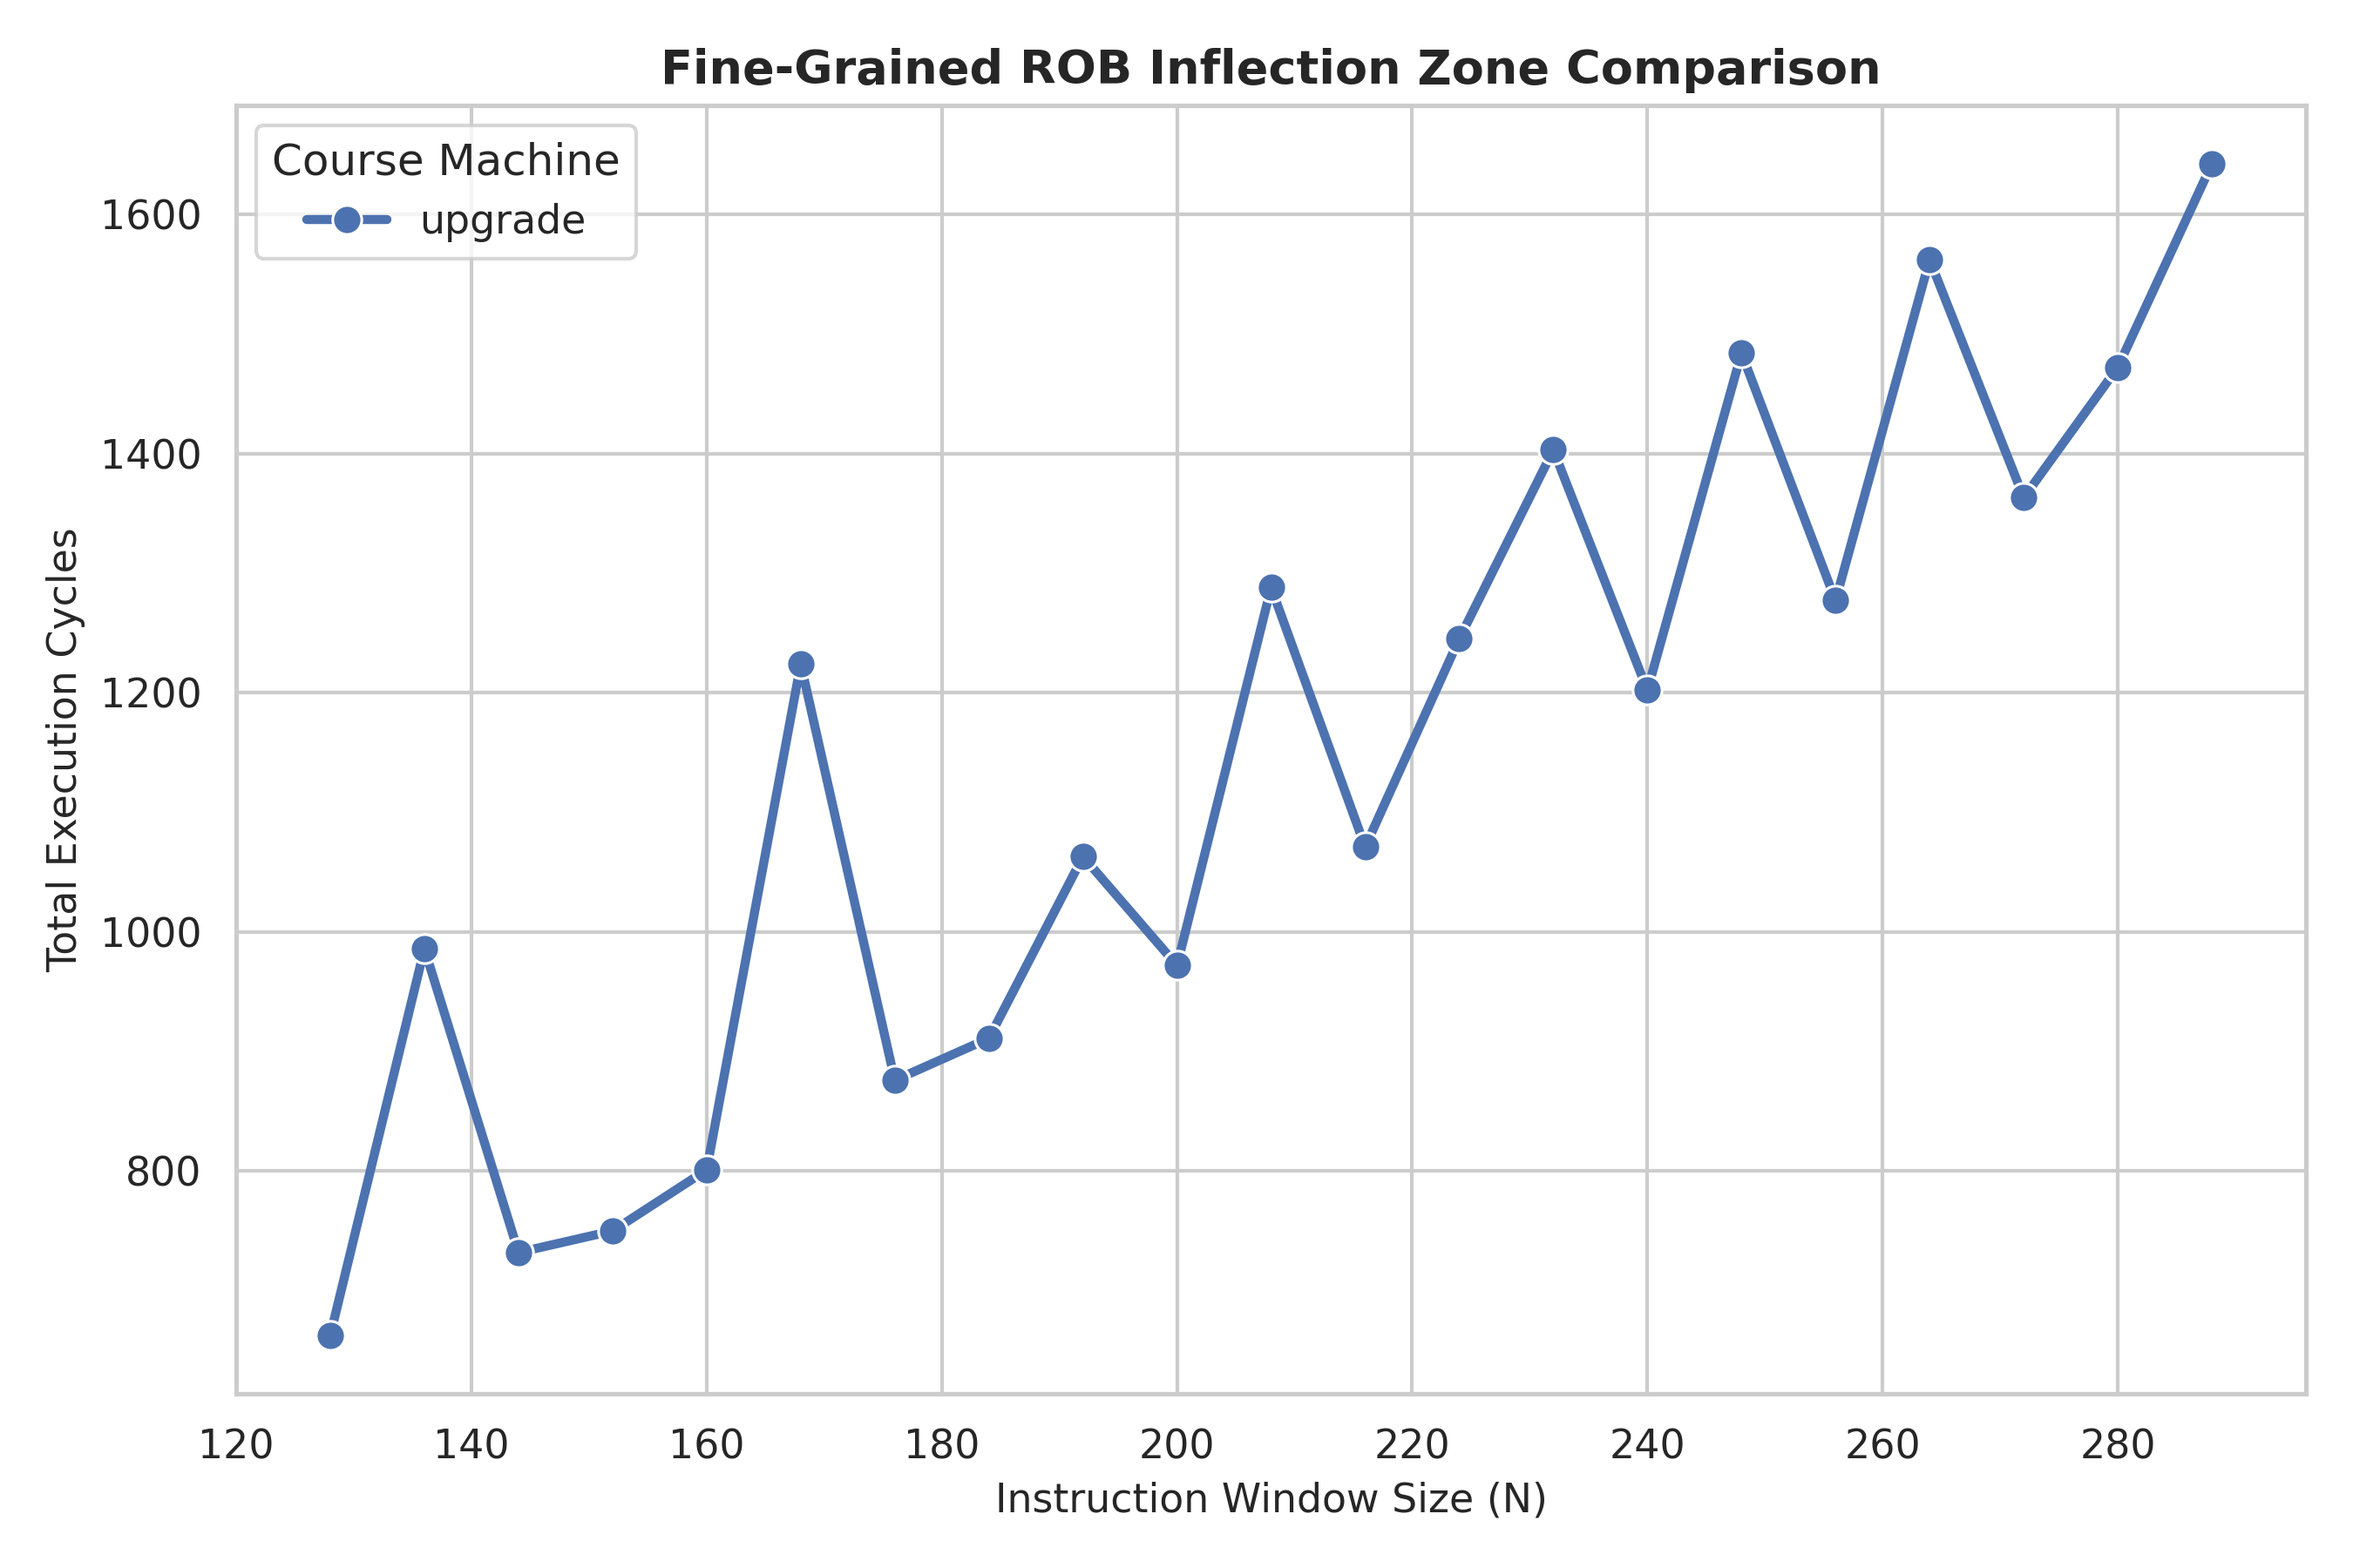
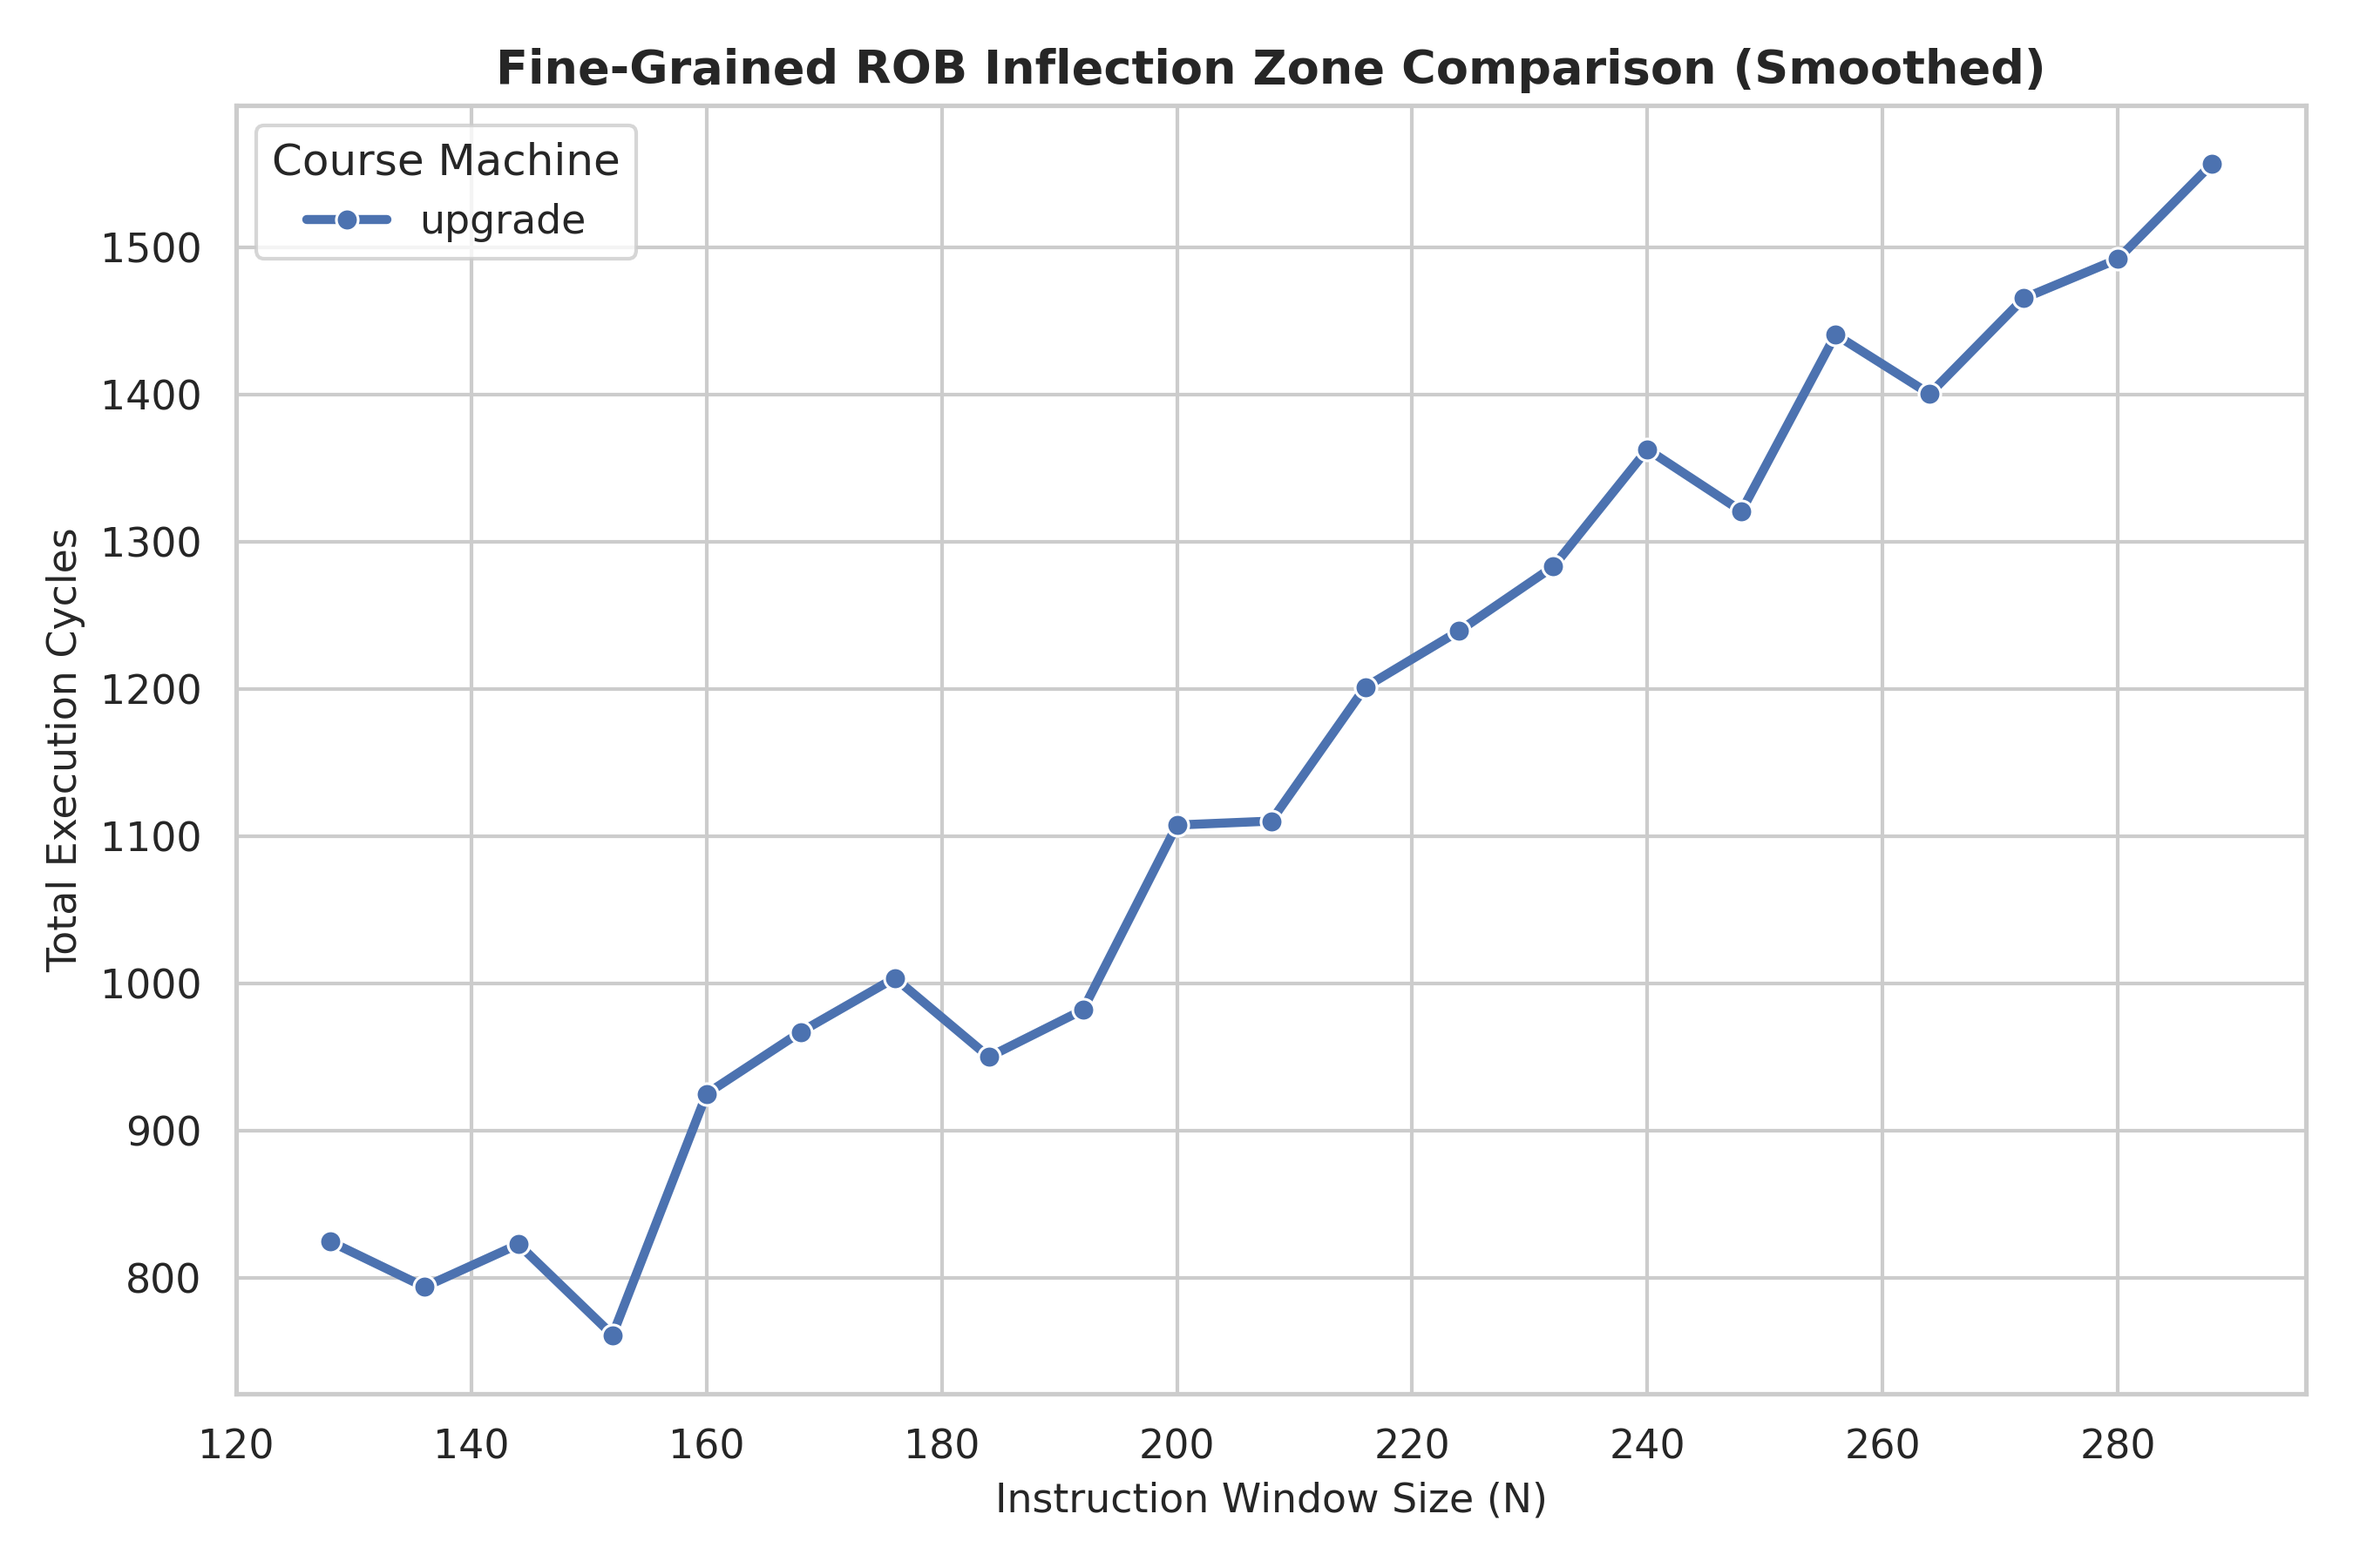
Add smooth trend overlay to fine-grained ROB zoom plots and comparison

diff --git a/plots/plot_rob_fine_all.py b/plots/plot_rob_fine_all.py
@@ -3,6 +3,7 @@ import matplotlib.pyplot as plt
 import seaborn as sns
 import glob
 import os
+import numpy as np
 
 # Find all fine-grained ROB CSV data files
 search_paths = [
@@ -26,52 +27,73 @@ if dfs:
     df.columns = df.columns.str.strip()
     df["Machine_Clean"] = df["Machine"].str.split(".").str[0]
 
-    os.makedirs("plots", abs=True) if not os.path.exists("plots") else None
+    os.makedirs("plots", exist_ok=True)
 
-    # 1. Generate an individual plot for each machine separately
+    # 1. Generate individual plots with both raw points and a smooth trend line
     for machine in df["Machine_Clean"].unique():
-        machine_df = df[df["Machine_Clean"] == machine]
+        machine_df = df[df["Machine_Clean"] == machine].sort_values("Window_Size")
         
         sns.set_theme(style="whitegrid")
         fig, ax = plt.subplots(figsize=(9, 6))
 
-        sns.lineplot(
+        # Plot raw measured points as scatter/markers
+        sns.scatterplot(
             data=machine_df, 
             x="Window_Size", 
             y="Cycles", 
-            marker="o", 
             color="teal",
-            linewidth=2.5, 
-            markersize=8, 
-            ax=ax
+            s=70,
+            zorder=3,
+            ax=ax,
+            label="Measured Data"
         )
 
-        ax.set_title(f"Fine-Grained ROB Inflection Zone ({machine})", fontsize=13, weight="bold")
+        # Compute a smoothed rolling average or polynomial fit for the trend line
+        # Using a rolling mean to smooth out alignment jitter while preserving the curve shape
+        machine_df["Smoothed_Cycles"] = machine_df["Cycles"].rolling(window=3, center=True, min_periods=1).mean()
+
+        sns.lineplot(
+            data=machine_df,
+            x="Window_Size",
+            y="Smoothed_Cycles",
+            color="darkcyan",
+            linewidth=2.5,
+            linestyle="--",
+            ax=ax,
+            label="Smoothed Trend"
+        )
+
+        ax.set_title(f"Fine-Grained ROB Inflection Zone with Trend ({machine})", fontsize=13, weight="bold")
         ax.set_ylabel("Total Execution Cycles", fontsize=11)
         ax.set_xlabel("Instruction Window Size (N)", fontsize=11)
+        ax.legend(loc="upper left")
 
         plt.tight_layout()
         out_path = f"plots/{machine}_rob_fine_zoom.png"
         plt.savefig(out_path, dpi=300)
         plt.close()
-        print(f"Saved individual plot: {out_path}")
+        print(f"Saved smoothed individual plot: {out_path}")
 
-    # 2. Generate a combined comparison plot for all machines together
+    # 2. Generate a combined comparison plot with smooth trends
     sns.set_theme(style="whitegrid")
     fig, ax = plt.subplots(figsize=(9, 6))
 
-    sns.lineplot(
-        data=df, 
-        x="Window_Size", 
-        y="Cycles", 
-        hue="Machine_Clean", 
-        marker="o", 
-        linewidth=2.5, 
-        markersize=8, 
-        ax=ax
-    )
+    for machine in df["Machine_Clean"].unique():
+        m_df = df[df["Machine_Clean"] == machine].sort_values("Window_Size")
+        m_df["Smoothed_Cycles"] = m_df["Cycles"].rolling(window=3, center=True, min_periods=1).mean()
+        
+        sns.lineplot(
+            data=m_df, 
+            x="Window_Size", 
+            y="Smoothed_Cycles", 
+            hue="Machine_Clean",
+            marker="o", 
+            linewidth=2.5, 
+            markersize=6, 
+            ax=ax
+        )
 
-    ax.set_title("Fine-Grained ROB Inflection Zone Comparison", fontsize=13, weight="bold")
+    ax.set_title("Fine-Grained ROB Inflection Zone Comparison (Smoothed)", fontsize=13, weight="bold")
     ax.set_ylabel("Total Execution Cycles", fontsize=11)
     ax.set_xlabel("Instruction Window Size (N)", fontsize=11)
     ax.legend(title="Course Machine", loc="upper left")
@@ -80,7 +102,7 @@ if dfs:
     combined_path = "plots/rob_fine_comparison_zoom.png"
     plt.savefig(combined_path, dpi=300)
     plt.close()
-    print(f"Saved combined comparison plot: {combined_path}")
+    print(f"Saved combined smoothed comparison plot: {combined_path}")
 
 else:
     print("Error: No fine-grained ROB CSV data files found.")
